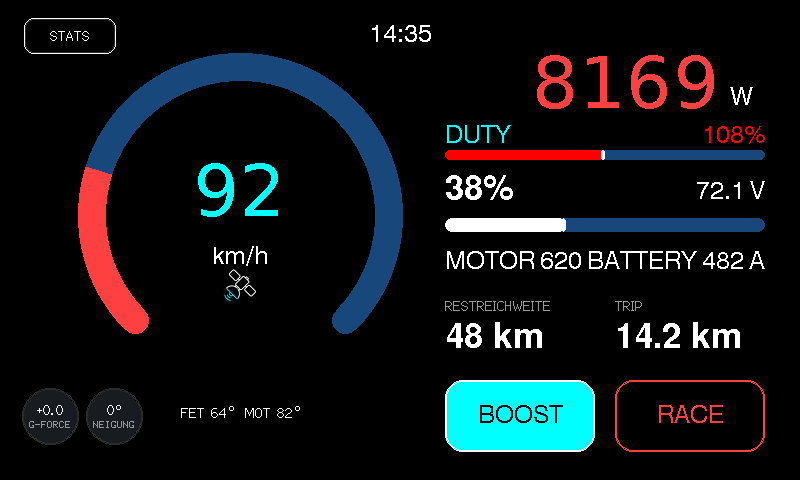
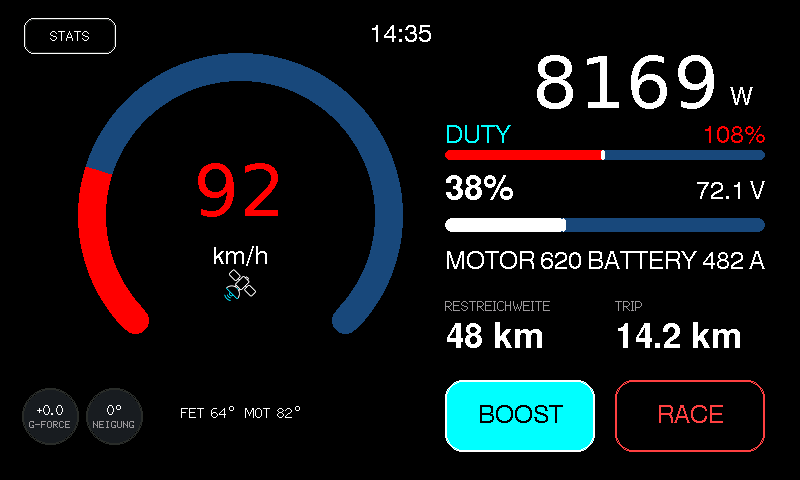
fix(dash): eliminate mode-change black flash, preserve theme colors in boost, and adapt boost button to theme

Changed region(s): [[0.6562, 0.0938, 0.9062, 0.25], [0.0938, 0.3438, 0.1875, 0.7188], [0.25, 0.3438, 0.3438, 0.4688]]

diff --git a/src/dash_renderer.cpp b/src/dash_renderer.cpp
@@ -759,8 +759,6 @@ void DashboardRenderer::renderHyper35kwStyle(const DashTelemetry &telemetry) {
     uint16_t arcCol = pal.primary;
     if (_is_sweeping) {
         arcCol = pal.primary;
-    } else if (telemetry.boost_active) {
-        arcCol = pal.secondary;
     } else if (spd >= 85.0f) {
         arcCol = COLOR_RED;
     } else if (spd >= 60.0f) {
@@ -847,15 +845,15 @@ void DashboardRenderer::renderHyper35kwStyle(const DashTelemetry &telemetry) {
         _canvas->drawString(telemetry.rider_tag, cx, 110);
     }
 
-    // 3. Hero Digital Speed Readout (Only redrawn when integer speed or boost status changes)
+    // 3. Hero Digital Speed Readout (Only redrawn when integer speed changes)
     int cur_spd_int = (int)(spd + 0.5f);
     bool gps_connected = telemetry.gps_enabled && (telemetry.gps.valid && telemetry.gps.satellites >= 4);
-    if (!_hyper_inited || cur_spd_int != _cache.speed || telemetry.boost_active != _cache.boost_active) {
+    if (!_hyper_inited || cur_spd_int != _cache.speed) {
         _cache.speed = cur_spd_int;
         _canvas->fillRect(cx - 70, 155, 140, 75, COLOR_BG);
         char spdBuf[16];
         snprintf(spdBuf, sizeof(spdBuf), "%d", cur_spd_int);
-        uint16_t spdCol = (_is_sweeping) ? COLOR_WHITE : (telemetry.boost_active ? COLOR_CYAN : ((spd >= 85.0f) ? COLOR_RED : COLOR_WHITE));
+        uint16_t spdCol = (_is_sweeping) ? COLOR_WHITE : ((spd >= 85.0f) ? COLOR_RED : COLOR_WHITE);
         drawHeroDigitText(_canvas, spdBuf, cx, 195, textdatum_t::middle_center, spdCol, COLOR_BG);
     }
 
@@ -883,13 +881,13 @@ void DashboardRenderer::renderHyper35kwStyle(const DashTelemetry &telemetry) {
     if (telemetry.speed_kmh < 0.5f && fabsf(_anim_power) < 8.0f) {
         cur_watts = 0;
     }
-    if (!_hyper_inited || cur_watts != _cache.watts || telemetry.boost_active != _cache.boost_active) {
+    if (!_hyper_inited || cur_watts != _cache.watts) {
         _cache.watts = cur_watts;
         if (telemetry.fault_code == 0) {
             _canvas->fillRect(460, 42, 310, 78, COLOR_BG);
             char pStr[16];
             snprintf(pStr, sizeof(pStr), "%d", cur_watts);
-            uint16_t pwrCol = (cur_watts < -10) ? COLOR_GREEN : (telemetry.boost_active ? pal.secondary : COLOR_WHITE);
+            uint16_t pwrCol = (cur_watts < -10) ? COLOR_GREEN : COLOR_WHITE;
             drawHeroDigitText(_canvas, pStr, 720, 50, textdatum_t::top_right, pwrCol, COLOR_BG);
 
             // Redraw "W" unit label so it never gets clipped or erased
@@ -1071,10 +1069,10 @@ void DashboardRenderer::renderHyper35kwStyle(const DashTelemetry &telemetry) {
         _cache.boost_active = telemetry.boost_active;
         _canvas->setTextDatum(textdatum_t::top_left);
         if (telemetry.boost_active) {
-            _canvas->fillRoundRect(445, 380, 150, 72, 18, COLOR_CYAN);
+            _canvas->fillRoundRect(445, 380, 150, 72, 18, pal.primary);
             _canvas->drawRoundRect(445, 380, 150, 72, 18, COLOR_WHITE);
             _canvas->drawRoundRect(446, 381, 148, 70, 17, COLOR_WHITE);
-            _canvas->setTextColor(COLOR_BG, COLOR_CYAN);
+            _canvas->setTextColor(COLOR_BG, pal.primary);
         } else {
             _canvas->fillRoundRect(445, 380, 150, 72, 18, COLOR_BG);
             _canvas->drawRoundRect(445, 380, 150, 72, 18, COLOR_WHITE);

diff --git a/src/main.cpp b/src/main.cpp
@@ -246,7 +246,6 @@ void loop() {
     if (telemetry.ride_mode != ModeManager::instance().getRideMode()) {
         telemetry.ride_mode = ModeManager::instance().getRideMode();
         telemetry.mode_badge_until = now + 2500;
-        Renderer.markScreenDirty();
     }
 
     // Auto-unlock if PIN lock was disabled in Settings
@@ -696,7 +695,6 @@ void loop() {
                         telemetry.current_amps = 0.0f;
                         telemetry.phase_amps = 0.0f;
                     }
-                    Renderer.markScreenDirty();
                     Serial.printf("[NAV] Toggled Hyper Boost: %s (Battery Limit: %.1f A)\n",
                                   telemetry.boost_active ? "ACTIVE (70A)" : "OFF (60A)",
                                   ModeManager::instance().getActiveLimits().max_battery_amps);
@@ -744,7 +742,6 @@ void loop() {
                         telemetry.current_amps = 0.0f;
                         telemetry.phase_amps = 0.0f;
                     }
-                    Renderer.markScreenDirty();
                     Serial.printf("[NAV] Cycled Ride Mode: %d (%s, Tuning: %s)\n",
                                   (int)telemetry.ride_mode,
                                   ModeManager::instance().getActiveModeName(),
@@ -784,7 +781,6 @@ void loop() {
     if (telemetry.screen != SCREEN_RACE_TIMER && telemetry.boost_active && now > telemetry.boost_end_ms) {
         telemetry.boost_active = false;
         ModeManager::instance().setBoostActive(false);
-        Renderer.markScreenDirty();
         Serial.println("[TIMER] Hyper Boost timed out (10s limit reached, restored 60A battery limit)");
     }
 
